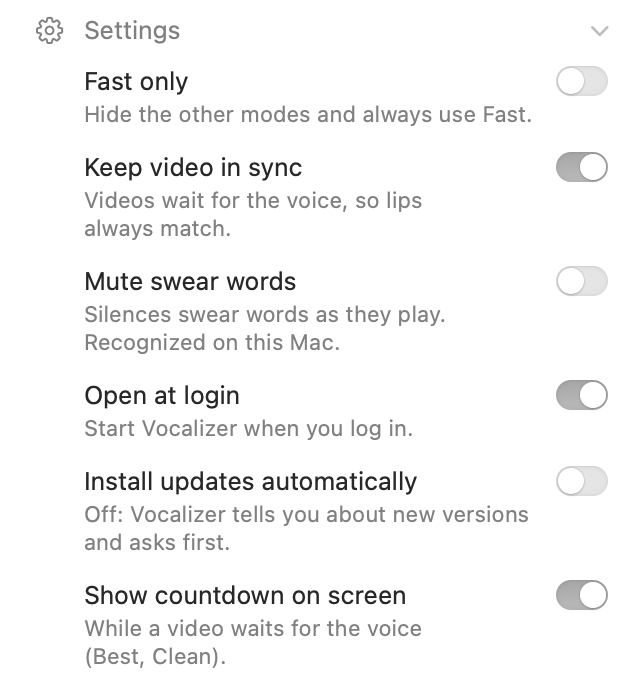
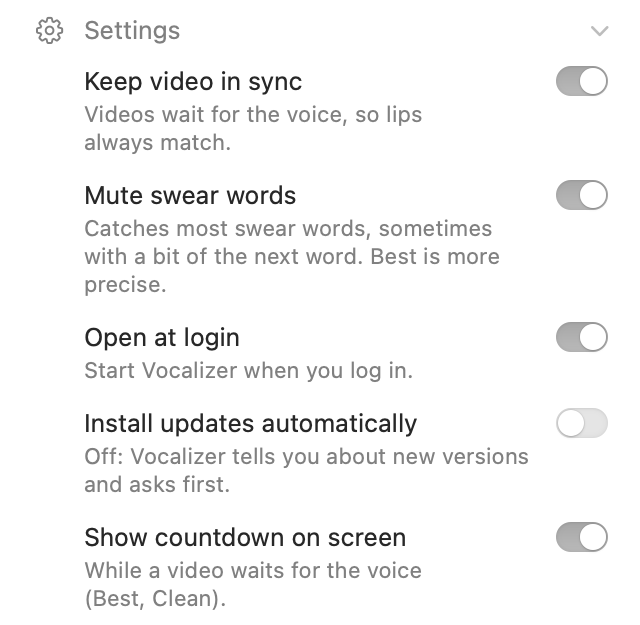
Mute swear words offers only Clean and Best (Fast and Calls play words before they're recognized)
Turning it on switches to Clean and hides Fast only; turning it off goes back to the earlier mode.
Measured on the swear-word clip: Fast 0/6, Clean 6/6 (wide mutes), Best 5/6 + 1 partly.

diff --git a/Sources/VocalizerMac/AppModel.swift b/Sources/VocalizerMac/AppModel.swift
@@ -60,6 +60,8 @@ enum Mode: String, CaseIterable, Identifiable {
         let buffer = sync ? syncJitterMs : (self == .supreme ? 2700 : self == .quality ? 250 : self == .ultra ? 25 : 100)
         return latencyMs + buffer + 35
     }
+    /// Slow enough for the swear-word filter: words are recognized before they play.
+    var catchesSwearWords: Bool { self == .quality || self == .supreme }
     /// Extra buffering in sync mode, where the delay is hidden from video anyway.
     /// (Supreme measures its own on load, ~2.7 s; this is the estimate shown before it runs.)
     var syncJitterMs: Double { self == .supreme ? 2700 : self == .quality ? 300 : self == .ultra ? 80 : 200 }
@@ -79,6 +81,7 @@ final class AppModel: ObservableObject {
     @Published var fastOnly = UserDefaults.standard.bool(forKey: "fastOnly") {
         didSet {
             if !AppModel.testing { UserDefaults.standard.set(fastOnly, forKey: "fastOnly") }
+            if fastOnly && muteSwearWords { muteSwearWords = false } // Fast can't catch swear words
             if fastOnly && mode != .live { mode = .live }
         }
     }
@@ -122,13 +125,26 @@ final class AppModel: ObservableObject {
               let installed = version(URL(fileURLWithPath: "/Library/Audio/Plug-Ins/HAL/Vocalizer.driver")) else { return false }
         return installed < bundled
     }
-    /// Optional swear-word filter (Apple's on-device speech recognition). Adds no delay.
+    /// Optional swear-word filter (Apple's on-device speech recognition). Adds no delay of its own, but it
+    /// needs the time Clean or Best already have: in Fast and Calls the words play before they're recognized.
+    /// So while it's on, only Clean and Best are offered, and turning it off goes back to the earlier mode.
     @Published var muteSwearWords = UserDefaults.standard.bool(forKey: "muteSwearWords") {
         didSet {
+            guard muteSwearWords != oldValue else { return }
             if !AppModel.testing { UserDefaults.standard.set(muteSwearWords, forKey: "muteSwearWords") }
             engine.setProfanityFilter(muteSwearWords)
+            if muteSwearWords {
+                if fastOnly { fastOnly = false }
+                if !mode.catchesSwearWords { modeBeforeFilter = mode; mode = .quality }
+            } else {
+                if let m = modeBeforeFilter, mode == .quality { mode = m }
+                modeBeforeFilter = nil
+            }
         }
     }
+    private var modeBeforeFilter: Mode?
+    /// The modes the menu offers right now.
+    var modeChoices: [Mode] { muteSwearWords ? availableModes.filter(\.catchesSwearWords) : availableModes }
     let swearFilterSupported = VocalizerEngine.profanityFilterSupported
     @Published private(set) var reportedLatencyMs = 0.0
     // MARK: Supreme model download
@@ -229,6 +245,11 @@ final class AppModel: ObservableObject {
         installSignalHandlers()
         startWatchdog()
         engine.setProfanityFilter(muteSwearWords)
+        if muteSwearWords { // saved settings from before Fast was excluded
+            if fastOnly && !AppModel.testing { UserDefaults.standard.set(false, forKey: "fastOnly") }
+            fastOnly = false
+            mode = .quality
+        }
         if !AppModel.testing {
             hotKey = HotKey { [weak self] in
                 guard let self, self.ready else { return }

diff --git a/Sources/VocalizerMac/VocalizerApp.swift b/Sources/VocalizerMac/VocalizerApp.swift
@@ -148,7 +148,7 @@ struct MenuView: View {
     private var modePicker: some View {
         VStack(alignment: .leading, spacing: 8) {
             HStack(spacing: 6) {
-                ForEach(model.availableModes) { m in
+                ForEach(model.modeChoices) { m in
                     Button { model.mode = m } label: {
                         VStack(spacing: 5) {
                             if model.preparing == m {
@@ -201,7 +201,7 @@ struct MenuView: View {
         return HStack(alignment: .top) {
             VStack(alignment: .leading, spacing: 2) {
                 Text(L("Mute swear words")).font(.system(size: 12.5))
-                Text(model.muteSwearWords ? swearHint : L("Silences swear words as they play. Recognized on this Mac."))
+                Text(model.muteSwearWords ? swearHint : L("Silences swear words as they play. Uses Clean or Best: Fast and Calls are too quick to catch them."))
                     .font(.system(size: 11)).foregroundStyle(.secondary).fixedSize(horizontal: false, vertical: true)
             }
             Spacer()
@@ -223,16 +223,10 @@ struct MenuView: View {
 
     private var swearHint: String {
         if let e = model.stats.profanityError, model.muteSwearWords { return L("Speech recognition isn't available: %@", "\(e)") }
-        switch model.mode {
-        case .live, .ultra, .balanced:
-            return model.fastOnly
-                ? L("Fast is too quick: words play before they're recognized. Turn off Fast only and use Best or Clean.")
-                : L("This mode is too quick: words play before they're recognized. Use Best or Clean.")
-        case .quality:
-            return L("Catches most swear words, sometimes with a bit of the next word. Best is more precise.")
-        case .supreme:
-            return L("Catches nearly every swear word, precisely. Recognized on this Mac.")
-        }
+        // Fast and Calls aren't offered while it's on (too quick to catch words before they play).
+        return model.mode == .supreme
+            ? L("Catches nearly every swear word, precisely. Recognized on this Mac.")
+            : L("Catches most swear words, sometimes with a bit of the next word. Best is more precise.")
     }
 
     // MARK: settings, folded away
@@ -253,7 +247,9 @@ struct MenuView: View {
 
             if showSettings {
                 VStack(alignment: .leading, spacing: 12) {
-                    settingToggle(L("Fast only"), L("Hide the other modes and always use Fast."), $model.fastOnly)
+                    if !model.muteSwearWords {
+                        settingToggle(L("Fast only"), L("Hide the other modes and always use Fast."), $model.fastOnly)
+                    }
                     settingToggle(L("Keep video in sync"), L("Videos wait for the voice, so lips always match."), $model.syncVideo)
                     if model.swearFilterSupported {
                         swearSetting

diff --git a/website/ar/muslim.html b/website/ar/muslim.html
@@ -128,10 +128,10 @@
       <div class="split">
         <div>
           <h2>وكتم الألفاظ البذيئة أيضًا.</h2>
-          <p class="sub">فعّل <b>كتم الألفاظ البذيئة</b> من الإعدادات فيكتمها Vocalizer أثناء تشغيلها، بالتعرّف على الكلام على جهازك نفسه، دون تأخير إضافي. مناسب للمشاهدة العائلية، ولصون سمعك.</p>
-          <p class="sub">يعمل أفضل في وضعي «الأفضل» و«نقي»، ويتطلب macOS 26 أو أحدث. وككل تعرّف على الكلام، قد تفوته كلمة أحيانًا.</p>
+          <p class="sub">فعّل <b>كتم الألفاظ البذيئة</b> من الإعدادات فيكتمها Vocalizer أثناء تشغيلها، بالتعرّف على الكلام على جهازك نفسه. مناسب للمشاهدة العائلية، ولصون سمعك.</p>
+          <p class="sub">يستخدم وضع «نقي» أو «الأفضل» ليتسع الوقت لالتقاط كل كلمة، ويتطلب macOS 26 أو أحدث. وككل تعرّف على الكلام، قد تفوته كلمة أحيانًا.</p>
         </div>
-        <div class="shot"><img src="/img/settings.png" alt="إعدادات Vocalizer مع مفتاح كتم الألفاظ البذيئة" width="320" height="345" loading="lazy" decoding="async"></div>
+        <div class="shot"><img src="/img/settings.png" alt="إعدادات Vocalizer مع مفتاح كتم الألفاظ البذيئة" width="320" height="313" loading="lazy" decoding="async"></div>
       </div>
     </div>
   </section>

diff --git a/website/ar/index.html b/website/ar/index.html
@@ -129,7 +129,7 @@
         </div>
         <div class="feature">
           <span class="glyph"><svg viewBox="0 0 24 24" fill="none" stroke="currentColor" stroke-width="1.8" stroke-linecap="round" stroke-linejoin="round" aria-hidden="true"><path d="M11 5 6 9H2v6h4l5 4V5Z"/><path d="m22 9-6 6M16 9l6 6"/></svg></span>
-          <div><h3>كتم الألفاظ البذيئة</h3><p>مفتاح اختياري في الإعدادات يكتم الألفاظ البذيئة أثناء تشغيلها، ويجري التعرّف عليها على جهازك، دون تأخير إضافي. يتطلب macOS 26 أو أحدث.</p></div>
+          <div><h3>كتم الألفاظ البذيئة</h3><p>مفتاح اختياري في الإعدادات يكتم الألفاظ البذيئة أثناء تشغيلها، ويجري التعرّف عليها على جهازك. يستخدم وضع «نقي» أو «الأفضل» ليتسع الوقت لالتقاط كل كلمة. يتطلب macOS 26 أو أحدث.</p></div>
         </div>
         <div class="feature">
           <span class="glyph"><svg viewBox="0 0 24 24" fill="none" stroke="currentColor" stroke-width="1.8" stroke-linecap="round" stroke-linejoin="round" aria-hidden="true"><path d="M3 18v-6a9 9 0 0 1 18 0v6"/><path d="M21 19a2 2 0 0 1-2 2h-1v-6h3ZM3 19a2 2 0 0 0 2 2h1v-6H3Z"/></svg></span>

diff --git a/website/muslim.html b/website/muslim.html
@@ -129,10 +129,10 @@
       <div class="split">
         <div>
           <h2>Mute swear words, too.</h2>
-          <p class="sub">Turn on <b>Mute swear words</b> in Settings and Vocalizer silences them as they play, recognized by your Mac's own speech recognition, with no extra delay. Good for family viewing, and for keeping your ears clean.</p>
-          <p class="sub">Works best in Best and Clean modes, and needs macOS 26 or later. Like any speech recognition, it can occasionally miss a word.</p>
+          <p class="sub">Turn on <b>Mute swear words</b> in Settings and Vocalizer silences them as they play, recognized by your Mac's own speech recognition. Good for family viewing, and for keeping your ears clean.</p>
+          <p class="sub">It uses Clean or Best mode, which leave time to catch each word, and needs macOS 26 or later. Like any speech recognition, it can occasionally miss a word.</p>
         </div>
-        <div class="shot"><img src="/img/settings.png" alt="Vocalizer Settings with the Mute swear words switch" width="320" height="345" loading="lazy" decoding="async"></div>
+        <div class="shot"><img src="/img/settings.png" alt="Vocalizer Settings with the Mute swear words switch" width="320" height="313" loading="lazy" decoding="async"></div>
       </div>
     </div>
   </section>

diff --git a/website/index.html b/website/index.html
@@ -129,7 +129,7 @@
         </div>
         <div class="feature">
           <span class="glyph"><svg viewBox="0 0 24 24" fill="none" stroke="currentColor" stroke-width="1.8" stroke-linecap="round" stroke-linejoin="round" aria-hidden="true"><path d="M11 5 6 9H2v6h4l5 4V5Z"/><path d="m22 9-6 6M16 9l6 6"/></svg></span>
-          <div><h3>Mute swear words</h3><p>An optional switch in Settings silences swear words as they play, recognized on your Mac, with no extra delay. Needs macOS 26 or later.</p></div>
+          <div><h3>Mute swear words</h3><p>An optional switch in Settings silences swear words as they play, recognized on your Mac. It uses Clean or Best mode, which leave time to catch each word. Needs macOS 26 or later.</p></div>
         </div>
         <div class="feature">
           <span class="glyph"><svg viewBox="0 0 24 24" fill="none" stroke="currentColor" stroke-width="1.8" stroke-linecap="round" stroke-linejoin="round" aria-hidden="true"><path d="M3 18v-6a9 9 0 0 1 18 0v6"/><path d="M21 19a2 2 0 0 1-2 2h-1v-6h3ZM3 19a2 2 0 0 0 2 2h1v-6H3Z"/></svg></span>

diff --git a/Sources/VocalizerMac/main.swift b/Sources/VocalizerMac/main.swift
@@ -148,6 +148,8 @@ if let i = args.firstIndex(of: "--menu-fit-check"), args.count > i + 1 {
     app.setActivationPolicy(.accessory)
     MainActor.assumeIsolated {
         let model = AppModel()
+        // VOCALIZER_TEST_SWEAR=1/0: show the menu with Mute swear words on/off (not saved).
+        if let v = ProcessInfo.processInfo.environment["VOCALIZER_TEST_SWEAR"] { model.muteSwearWords = v == "1" }
         let defaults = UserDefaults.standard
         let saved = defaults.bool(forKey: "showSettings")
         defaults.set(false, forKey: "showSettings")

diff --git a/tools/ar_site.py b/tools/ar_site.py
@@ -35,7 +35,7 @@ index={
  "Video players hold the picture back by exactly the processing delay, so faces and voices line up.":"تؤخّر مشغّلات الفيديو الصورة بمقدار تأخير المعالجة تمامًا، فتتطابق الوجوه والأصوات.",
  "Private by design":"خاص بطبيعته",
  "Audio is processed on your Mac's Neural Engine and GPU. It is never recorded, stored or sent anywhere.":"يُعالَج الصوت بمحرك Neural Engine ومعالج الرسوميات في جهازك. لا يُسجَّل ولا يُخزَّن ولا يُرسَل إلى أي مكان.",
- "An optional switch in Settings silences swear words as they play, recognized on your Mac, with no extra delay. Needs macOS 26 or later.":"مفتاح اختياري في الإعدادات يكتم الألفاظ البذيئة أثناء تشغيلها، ويجري التعرّف عليها على جهازك، دون تأخير إضافي. يتطلب macOS 26 أو أحدث.",
+ "An optional switch in Settings silences swear words as they play, recognized on your Mac. It uses Clean or Best mode, which leave time to catch each word. Needs macOS 26 or later.":"مفتاح اختياري في الإعدادات يكتم الألفاظ البذيئة أثناء تشغيلها، ويجري التعرّف عليها على جهازك. يستخدم وضع «نقي» أو «الأفضل» ليتسع الوقت لالتقاط كل كلمة. يتطلب macOS 26 أو أحدث.",
  "Speakers and headphones":"السماعات وسماعات الرأس",
  "Plug in headphones or connect AirPods and the sound follows. Your volume keys keep working.":"صِل سماعات الرأس أو AirPods وينتقل الصوت إليها. تبقى أزرار الصوت تعمل.",
  "Signed and notarized":"موقّع ومعتمد من Apple",
@@ -129,8 +129,8 @@ muslim={
  "Updates ask first":"التحديثات تستأذن أولًا",
  "New versions only install when you say so, and only after their signature is verified. Its one connection is checking for updates.":"لا تُثبَّت الإصدارات الجديدة إلا بموافقتك، وبعد التحقق من توقيعها. واتصاله الوحيد بالإنترنت هو البحث عن التحديثات.",
  "Mute swear words, too.":"وكتم الألفاظ البذيئة أيضًا.","Turn on":"فعّل",
- "in Settings and Vocalizer silences them as they play, recognized by your Mac's own speech recognition, with no extra delay. Good for family viewing, and for keeping your ears clean.":"من الإعدادات فيكتمها Vocalizer أثناء تشغيلها، بالتعرّف على الكلام على جهازك نفسه، دون تأخير إضافي. مناسب للمشاهدة العائلية، ولصون سمعك.",
- "Works best in Best and Clean modes, and needs macOS 26 or later. Like any speech recognition, it can occasionally miss a word.":"يعمل أفضل في وضعي «الأفضل» و«نقي»، ويتطلب macOS 26 أو أحدث. وككل تعرّف على الكلام، قد تفوته كلمة أحيانًا.",
+ "in Settings and Vocalizer silences them as they play, recognized by your Mac's own speech recognition. Good for family viewing, and for keeping your ears clean.":"من الإعدادات فيكتمها Vocalizer أثناء تشغيلها، بالتعرّف على الكلام على جهازك نفسه. مناسب للمشاهدة العائلية، ولصون سمعك.",
+ "It uses Clean or Best mode, which leave time to catch each word, and needs macOS 26 or later. Like any speech recognition, it can occasionally miss a word.":"يستخدم وضع «نقي» أو «الأفضل» ليتسع الوقت لالتقاط كل كلمة، ويتطلب macOS 26 أو أحدث. وككل تعرّف على الكلام، قد تفوته كلمة أحيانًا.",
  "Vocalizer Settings with the Mute swear words switch":"إعدادات Vocalizer مع مفتاح كتم الألفاظ البذيئة",
  "Download Vocalizer and drag it to your Applications folder. It's free, with nothing to buy inside.":"نزّل Vocalizer واسحبه إلى مجلد التطبيقات. مجاني، ولا شيء للشراء بداخله.",
  "It lives in the menu bar. For video, click":"يظهر في شريط القوائم. للفيديو انقر",

diff --git a/README.md b/README.md
@@ -66,11 +66,11 @@ but is no longer offered in the menu.)
   Control Center shows **Vocalizer (your headphones)** so you can see where the sound really goes, and the
   **Output** picker in the Vocalizer menu switches it directly.
 - With sync off, you can pick a single app to filter (Source).
-- **Mute swear words** (switch in the menu): silences swear words, recognised on your Mac by Apple's speech
-  recognition (macOS 26+), with **no added delay**. It works inside the delay each mode already has, so it depends on
-  the mode. Measured on a test clip with 7 swear words over music: **Best** silences 6 of 7 precisely, **Clean** 5 of
-  7 (sometimes clipping part of the next word), **Fast/Calls** can't (a word plays before it can be recognised).
-  The misses were words the recogniser misheard. Delay with the filter on vs off: 7.36/7.27 s vs 7.26/7.45 s (Best).
+- **Mute swear words** (Settings): silences swear words, recognised on your Mac by Apple's speech recognition
+  (macOS 26+). It works inside the delay a mode already has, so while it's on the menu offers only **Clean** and
+  **Best** (it switches to Clean, and back when you turn it off): in Fast and Calls a word plays before it can be
+  recognised. Measured on a test clip with 6 swear words over music (2026-10-20): **Best** 5 fully + 1 partly,
+  precisely; **Clean** 6 of 6, but with wider mutes (about a second around each word); Fast 0 of 6.
 - **⌥⇧V** (Option-Shift-V) switches it on or off from anywhere.
 - **Waiting is visible.** With Best (and Clean), videos hold their picture until the voice arrives: the menu shows
   "Video starts in 6 s" with a progress bar, a countdown ring appears in the middle of the screen (like the volume
